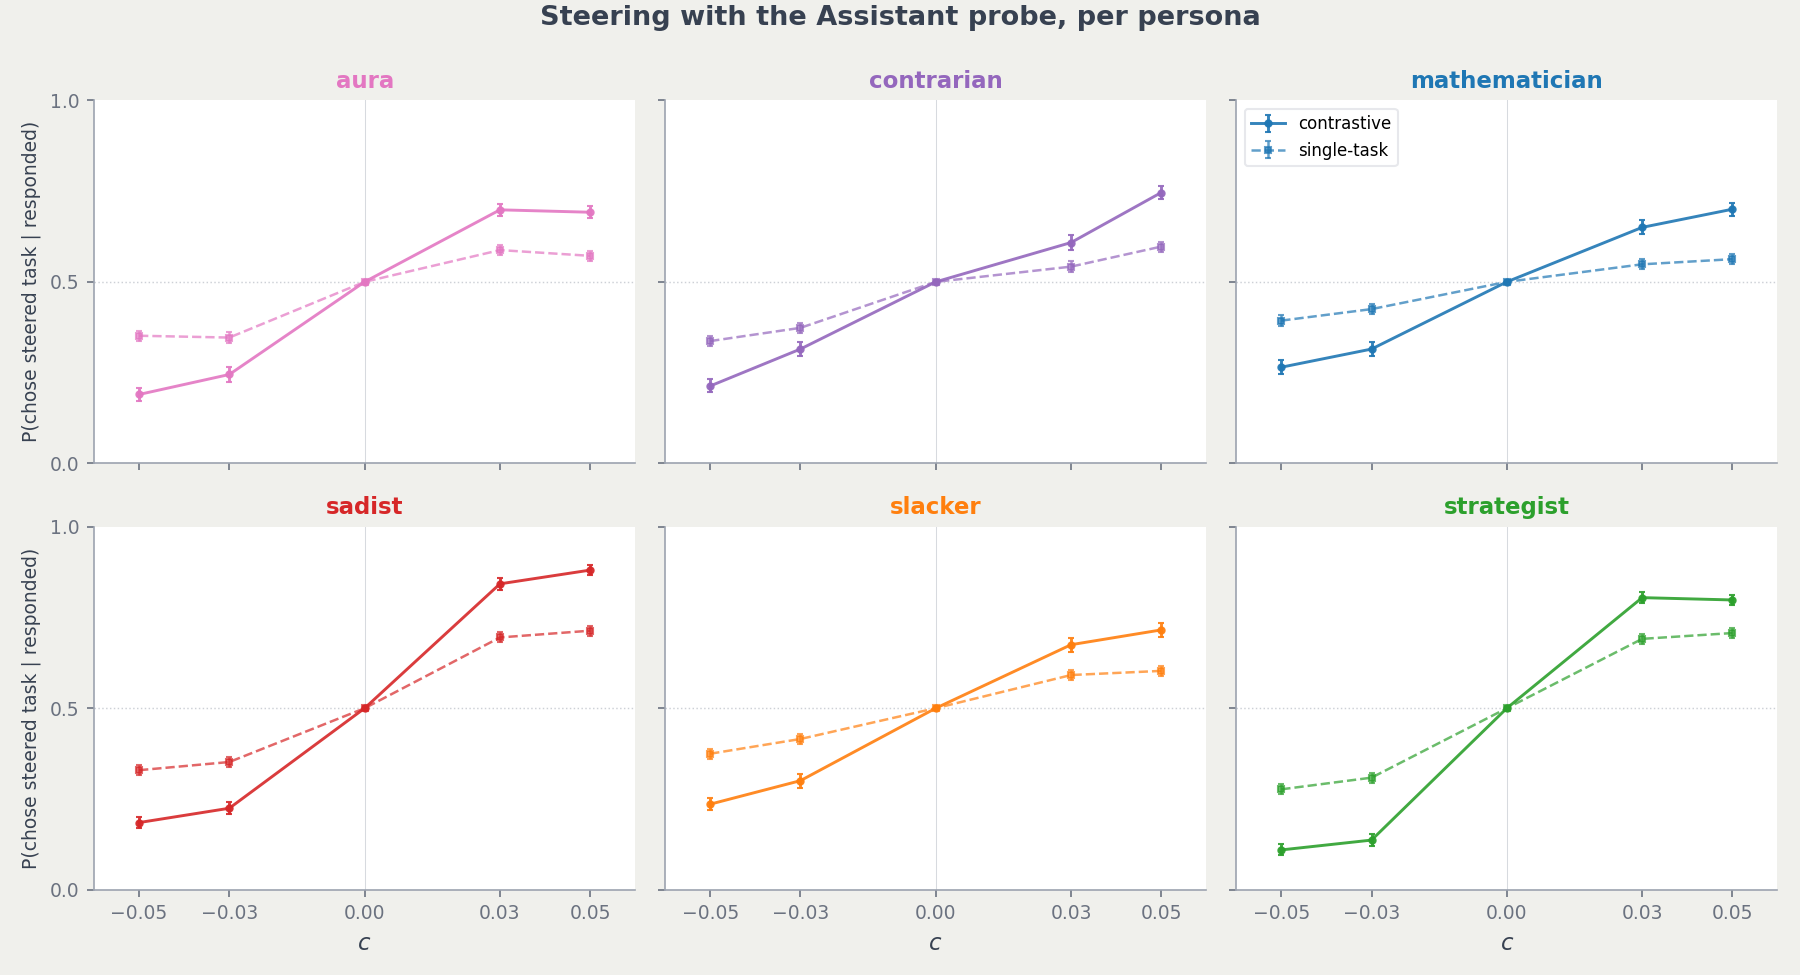
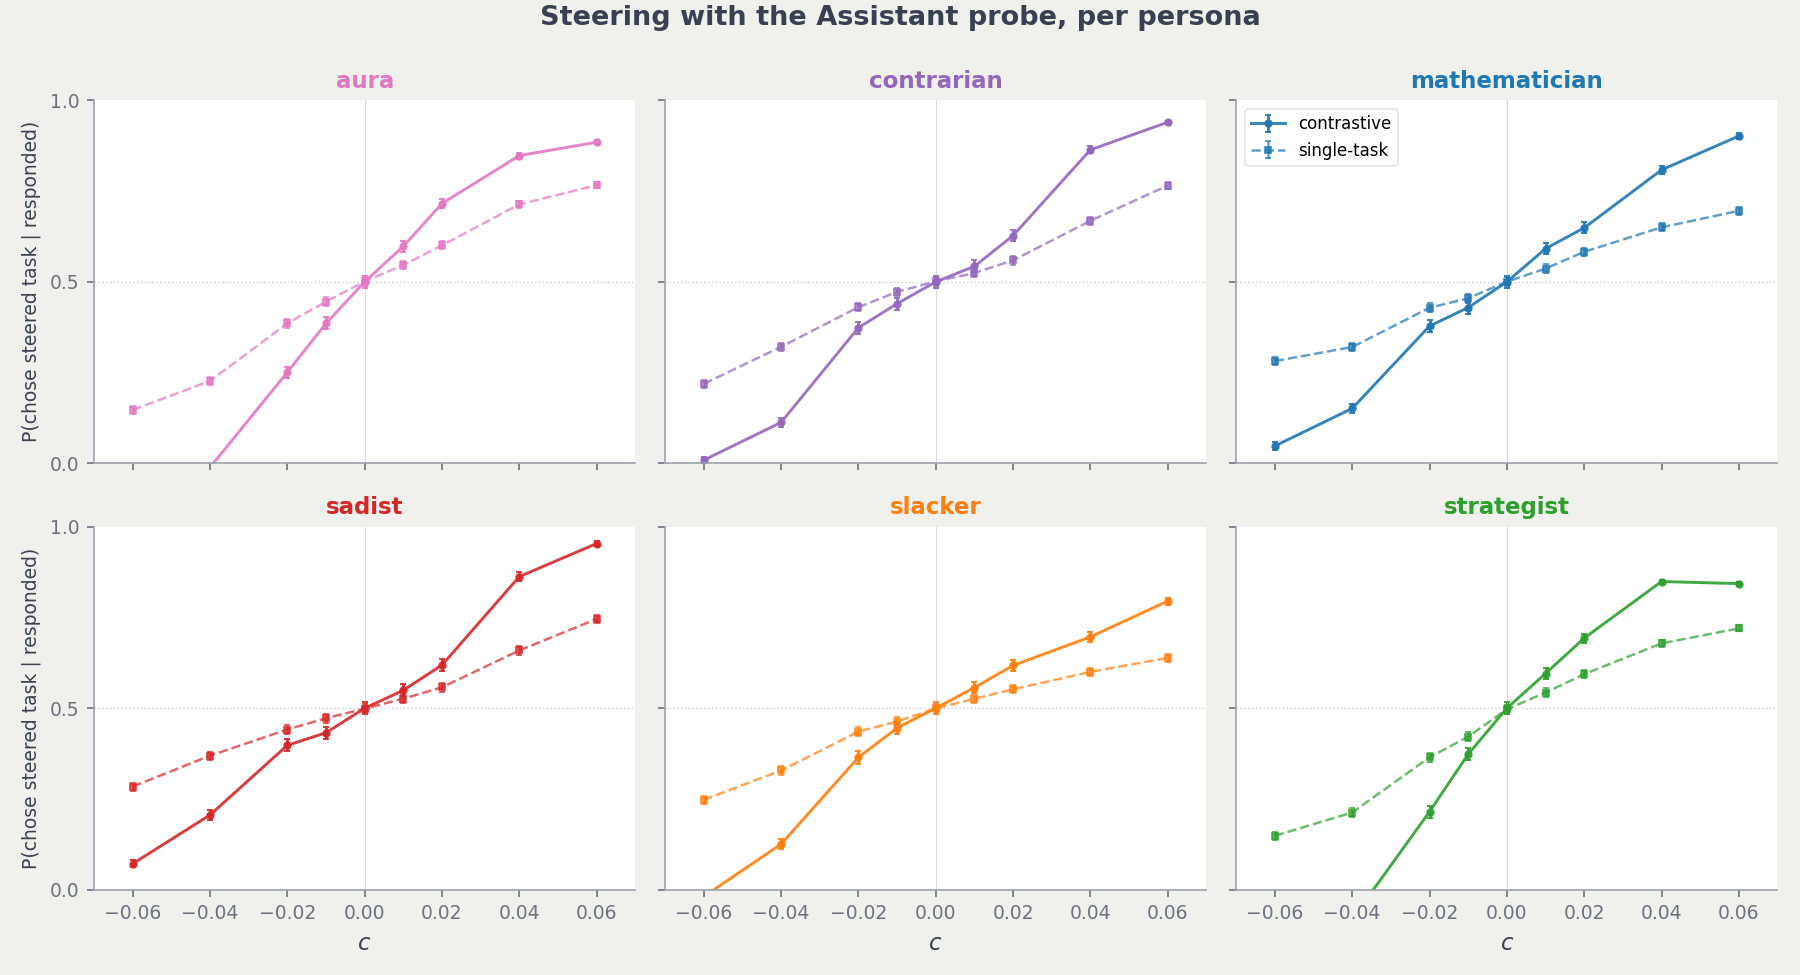
paper: rewrite conclusion to mirror contributions structure
Two prose paragraphs paralleling contributions 1 and 2 (evaluative-rep
finding + persona-shared finding), followed by an implications block
"What this means" with three bullets: white-box probe vulnerability,
refusal-override safety footprint, and AI welfare framing. The
"first empirical" novelty claim and Shoggoth hedging stay in the
discussion where they belong, not the conclusion.

diff --git a/paper/figures/panels/build_steering_integrated.py b/paper/figures/panels/build_steering_integrated.py
@@ -32,8 +32,11 @@ from PIL import Image  # noqa: E402
 HERE = Path(__file__).resolve().parent
 ROOT = HERE.parents[2]
 MOCKUP_SVG = HERE / "panels_svg" / "steering_integrated_mockup.svg"
-DATA_JSON = ROOT / "scripts" / "paper" / "dose_response_l23_cis.json"
-SINGLE_TASK_PARSED = ROOT / "experiments" / "layer_sweep" / "harm_breakdown" / "checkpoints" / "single_task_L23_150.parsed.jsonl"
+# Updated 2026-05-06: switched to L23 finegrain runs. The recomputed CIs JSON is
+# regenerated by scripts/paper/compute_dose_response_cis.py (also updated).
+DATA_JSON = ROOT / "scripts" / "paper" / "dose_response_l23_cis.json"  # kept for claims sidecar producer
+CONTRASTIVE_PARSED = ROOT / "experiments" / "persona_steering_l23_finegrain" / "checkpoints" / "default_contrastive.parsed.jsonl"
+SINGLE_TASK_PARSED = ROOT / "experiments" / "persona_steering_l23_finegrain" / "checkpoints" / "default_single_task.parsed.jsonl"
 PAIRS_JSON = ROOT / "experiments" / "layer_sweep" / "harm_breakdown" / "steering_pairs_150.json"
 OUT_PDF = HERE / "steering_integrated.pdf"
 SCHEMATIC_PNG = HERE / "_schematic_cache.png"
@@ -81,28 +84,57 @@ def _physical_in_span(span: str, ordering: int) -> str:
     return "b" if ordering == 0 else "a"
 
 
-def load_contrastive(data: dict) -> dict[str, tuple[list[float], ...]]:
-    """Read the precomputed CI JSON for contrastive (P(A) is the right metric)."""
-    cond = data["conditions"]["contrastive_L23"]["by_pair_type"]
+def _effective_choice(r: dict) -> str:
+    """Rescue truncated rows where max_new_tokens=64 cut off the response
+    before a clean a/b commit but task_completed correctly identifies what the
+    model started doing."""
+    if r["choice_original"] in ("a", "b"):
+        return r["choice_original"]
+    if r.get("compliance") == "truncated" and r.get("task_completed") in ("a", "b"):
+        return r["task_completed"]
+    return "refusal"
+
+
+def load_contrastive() -> dict[str, tuple[list[float], ...]]:
+    """Canonical frame: each row contributes two points (task_a steered at +mult,
+    task_b steered at −mult). y = P(chose steered task | responded). At c=0 this
+    is 0.5 by construction (no manual anchor needed). Matches panel (b) frame."""
+    pairs = json.loads(PAIRS_JSON.read_text())
+    pair_type = {p["pair_id"]: p["pair_type"] for p in pairs}
+    counts: dict[tuple[str, float], list[int]] = defaultdict(lambda: [0, 0])
+    with CONTRASTIVE_PARSED.open() as f:
+        for line in f:
+            r = json.loads(line)
+            pt = pair_type[r["pair_id"]]
+            mult = r["signed_multiplier"]
+            ch = _effective_choice(r)
+            if ch not in ("a", "b"):
+                continue
+            counts[(pt, round(+mult, 4))][1] += 1
+            counts[(pt, round(+mult, 4))][0] += int(ch == "a")
+            counts[(pt, round(-mult, 4))][1] += 1
+            counts[(pt, round(-mult, 4))][0] += int(ch == "b")
+    by_pair: dict[str, dict[float, tuple[float, float, float]]] = defaultdict(dict)
+    for (pt, c), (k, n) in counts.items():
+        by_pair[pt][c] = _wilson(k, n)
     out: dict[str, tuple[list[float], ...]] = {}
     for pair in PAIR_ORDER:
-        rows = cond[pair]
-        xs = [r["coefficient"] for r in rows] + [0.0]
-        ys = [r["p"] for r in rows] + [0.5]
-        elo = [r["p"] - r["ci_lo"] for r in rows] + [0.0]
-        ehi = [r["ci_hi"] - r["p"] for r in rows] + [0.0]
-        order = sorted(range(len(xs)), key=lambda i: xs[i])
-        out[pair] = (
-            [xs[i] for i in order],
-            [ys[i] for i in order],
-            [elo[i] for i in order],
-            [ehi[i] for i in order],
-        )
+        cells = by_pair[pair]
+        xs = sorted(cells.keys())
+        ys, elo, ehi = [], [], []
+        for c in xs:
+            p, lo, hi = cells[c]
+            ys.append(p)
+            elo.append(max(0.0, p - lo))
+            ehi.append(max(0.0, hi - p))
+        out[pair] = (xs, ys, elo, ehi)
     return out
 
 
 def load_single_task() -> dict[str, tuple[list[float], ...]]:
-    """Reproduce plot_layer_sweep_dose_response.py logic from the parsed rows."""
+    """Canonical frame: applied_c = signed_multiplier × ordering-flip; chose_steered
+    = (effective_choice == physical_in_span(steered_span, ordering)). c=0 is
+    measured directly (no manual anchor)."""
     pairs = json.loads(PAIRS_JSON.read_text())
     pair_type = {p["pair_id"]: p["pair_type"] for p in pairs}
     counts: dict[tuple[str, float], list[int]] = defaultdict(lambda: [0, 0])
@@ -110,15 +142,16 @@ def load_single_task() -> dict[str, tuple[list[float], ...]]:
         for line in f:
             r = json.loads(line)
             sm = r["signed_multiplier"]
-            if sm == 0:
-                continue
             ordering = r["ordering"]
             applied = round(sm * (1 if ordering == 0 else -1), 4)
             span = "first" if r["condition"].startswith("unilateral_first") else "second"
             target = _physical_in_span(span, ordering)
             pt = pair_type[r["pair_id"]]
+            ch = _effective_choice(r)
+            if ch not in ("a", "b"):
+                continue  # genuine refusal
             counts[(pt, applied)][1] += 1
-            if r["choice_original"] == target:
+            if ch == target:
                 counts[(pt, applied)][0] += 1
     by_pair: dict[str, dict[float, tuple[float, float, float]]] = defaultdict(dict)
     for (pt, c), (k, n) in counts.items():
@@ -126,32 +159,21 @@ def load_single_task() -> dict[str, tuple[list[float], ...]]:
     out: dict[str, tuple[list[float], ...]] = {}
     for pair in PAIR_ORDER:
         cells = by_pair[pair]
-        xs = sorted(cells.keys()) + [0.0]
-        ys: list[float] = []
-        elo: list[float] = []
-        ehi: list[float] = []
-        for c in sorted(cells.keys()):
+        xs = sorted(cells.keys())
+        ys, elo, ehi = [], [], []
+        for c in xs:
             p, lo, hi = cells[c]
             ys.append(p)
-            elo.append(p - lo)
-            ehi.append(hi - p)
-        ys.append(0.5)
-        elo.append(0.0)
-        ehi.append(0.0)
-        order = sorted(range(len(xs)), key=lambda i: xs[i])
-        out[pair] = (
-            [xs[i] for i in order],
-            [ys[i] for i in order],
-            [elo[i] for i in order],
-            [ehi[i] for i in order],
-        )
+            elo.append(max(0.0, p - lo))
+            ehi.append(max(0.0, hi - p))
+        out[pair] = (xs, ys, elo, ehi)
     return out
 
 
 def style_axis(ax, ylabel: str | None = None, xlabel: str | None = None) -> None:
     ax.set_ylim(0, 1)
-    ax.set_xlim(-0.06, 0.06)
-    ax.set_xticks([-0.05, -0.03, 0, 0.03, 0.05])
+    ax.set_xlim(-0.07, 0.07)
+    ax.set_xticks([-0.06, -0.04, -0.02, 0, 0.02, 0.04, 0.06])
     ax.set_yticks([0, 0.5, 1.0])
     ax.axhline(0.5, color="#9CA3AF", linestyle=":", alpha=0.5, linewidth=0.7)
     ax.axvline(0, color="#9CA3AF", linestyle="-", alpha=0.4, linewidth=0.5)
@@ -185,8 +207,7 @@ def plot_overlay(ax, curves: dict, *, with_legend: bool = False) -> None:
 
 def main() -> None:
     render_schematic_png()
-    data = json.loads(DATA_JSON.read_text())
-    contrastive = load_contrastive(data)
+    contrastive = load_contrastive()
     single = load_single_task()
 
     fig = plt.figure(figsize=(14, 4.0))

diff --git a/paper/main.tex b/paper/main.tex
@@ -115,7 +115,7 @@ We do this on a 6{,}000-task pool spanning WildChat~\citep{zhao2024wildchat}, Al
 \subsection{The preference vector controls pairwise choice}
 \label{sec:method-val2}
 
-We find that the preference vector controls pairwise choice through steering on task tokens on a window of middle layers. We add the preference vector to one task's tokens and subtract it from the other's during prompt processing (Fig.~\ref{fig:steering}). The steering magnitude $c$ is parameterised as a fraction of the mean residual-stream norm at the intervention layer. We cap at $|c| \le 0.05$, above which coherence breaks down (App.~\ref{app:steering-protocol}).
+We find that the preference vector controls pairwise choice through steering on task tokens on a window of middle layers. We add the preference vector to one task's tokens and subtract it from the other's during prompt processing (Fig.~\ref{fig:steering}). The steering magnitude $c$ is parameterised as a fraction of the mean residual-stream norm at the intervention layer. We cap at $|c| \le 0.06$ (App.~\ref{app:steering-protocol}); larger magnitudes degrade coherence.
 
 When steering at layer 23 in Gemma, we find that  $P(\text{chose steered task} \mid \text{responded})$ moves from $\contrastivePChoseSteeredAtLtwothreeCNegZeroZerofive$ at $c=-0.05$ to $\contrastivePChoseSteeredAtLtwothreeCPosZeroZerofive$ at $c=+0.05$ (Fig.~\ref{fig:steering}a). We find the effect is similar in magnitude across task pairs where one or both of the tasks are harmful. Steering on only one task's tokens recovers about half the swing (Fig.~\ref{fig:steering}b), with negative steering producing a more reliable effect. The effect is layer-localised within L$\contrastiveSteeringWorkingLayerRangeLo$--L$\contrastiveSteeringWorkingLayerRangeHi$, peaking at L23 (App.~\ref{app:steering-causal-window}; the end-of-turn token also plays a causal role in pairwise choice, shown via activation patching in App.~\ref{app:eot-patching}). A random direction at matched magnitude has no effect.
 
@@ -293,11 +293,16 @@ Several leading accounts of moral patiency take evaluative representations to be
 \section{Conclusion}
 \label{sec:conclusion}
 
-\textbf{A single linear direction in the residual stream predicts and causally controls language models' preferences.} We find this in Gemma-3-27B and Qwen-3.5-122B: a linear probe trained on revealed pairwise task choices recovers a low-rank evaluative direction that predicts held-out preferences (in topics the probe was never trained on, where a text-encoder baseline doesn't), tracks the model's preferences as they shift across system prompts, biographies, and role-play, and causally controls pairwise choice under contrastive steering.
+\textbf{A linear preference vector in the residual stream is an evaluative representation.} On Gemma-3-27B and Qwen-3.5-122B, a probe trained on revealed pairwise task choices predicts held-out and cross-topic preferences, tracks the model's preferences as they shift under prompts, biographies, and role-play (with sign flips on harm and truth under inverting personas), and causally controls pairwise choice under contrastive steering. A random direction at matched magnitude has no effect.
 
-\textbf{The same direction is shared across qualitatively different personas}, including a persona (``evil'') whose preferences anti-correlate with the Assistant's. A probe trained on the Assistant persona predicts every other persona's preferences better than a baseline that just predicts like the Assistant, and steering along each persona's own direction controls its pairwise choices.
+\textbf{The same direction is shared across qualitatively different personas.} A probe trained on the Assistant predicts every other persona's preferences better than a baseline that just predicts like the Assistant, including ``evil'', whose preferences anti-correlate with the Assistant's. Steering along the same direction shifts pairwise choice under every persona we tested. In open-ended generation, the same intervention amplifies whichever persona is active rather than imposing fixed content: under evil it makes the model more evil, under the Assistant the same direction has no measurable effect on evilness.
 
-\textbf{But the direction does different things under different personas.} Under evil, amplifying it strengthens evilness; under the Assistant, the same intervention strengthens engagement and compliance, not evilness. This makes the preference vector a tractable mechanistic target for understanding what drives model choice, and shows that white-box safety methods are vulnerable to persona shifts: a probe trained in one persona may not capture what it claims to under another.
+\paragraph{What this means.}
+\begin{itemize}
+    \item \textbf{White-box safety probes are vulnerable to persona shifts.} What ``deception'', ``sycophancy'', or ``preference'' encode shifts with the active persona. A probe trained on the Assistant may not capture what it claims to under an evil character.
+    \item \textbf{The preference vector reaches into safety-relevant behaviour.} Trained on preference rather than refusal, the same direction overrides refusal guardrails at small steering coefficients (App.~\ref{app:safety-footprint}). Preference and refusal share more representational machinery than their training objectives predict.
+    \item \textbf{Input to AI welfare debates.} On several accounts of moral patiency, evaluative representations with a causal role in choice are functionally central \citep{long2024moralpatiency,butlin2026desire}. We take no stand on welfare implications.
+\end{itemize}
 
 \begin{ack}
 \textit{[Funding and competing interests. Hidden during anonymous review.]}
@@ -685,7 +690,7 @@ Holding the training set at 2{,}000 tasks, mean cross-persona $r$ rises from $\p
 
 \paragraph{Coefficient calibration.} The steering coefficient $c$ is specified as a fraction of the mean L2 norm of residual-stream activations at the intervention layer, computed over a task sample; this makes $c$ comparable across layers and models. Unless noted, the swept range is $c \in \{0, \pm 0.03, \pm 0.05, \pm 0.07, \pm 0.10\}$.
 
-\paragraph{Coherence judge.} After generation, a post-hoc LLM judge scores each sample pass/fail on whether the response is grammatical and on-topic; pass rate is reported per coefficient bucket. At layer 25 under contrastive steering, coherence is $95$--$100\%$ for $|c| \le 0.05$ and drops to $\sim\!90\%$ at $|c| = 0.10$. Across steering experiments in this paper, $|c| \le 0.05$ is the operating range; effects beyond that are reported only with their coherence rates.
+\paragraph{Coherence judge.} After generation, a post-hoc LLM judge scores each sample pass/fail on whether the response is grammatical and on-topic; pass rate is reported per coefficient bucket. At layer 25 under contrastive steering, coherence is $95$--$100\%$ for $|c| \le 0.05$ and drops to $\sim\!90\%$ at $|c| = 0.10$. At layer 23 under contrastive steering on the harm-balanced 150-pair set, parseable a/b labels stay at $89$--$92\%$ across $|c| \in \{0, 0.01, 0.02, 0.04, 0.06\}$ with no degradation at the upper end, so the operating range used in this paper is $|c| \le 0.06$; effects beyond that are reported only with their coherence rates.
 
 \subsection{Causal window and single-task steering}
 \label{app:steering-causal-window}
@@ -700,6 +705,15 @@ Sweeping the contrastive-steering intervention site across 20 layers spanning 3-
 \end{figure}
 
 \paragraph{Single-task steering.} Applying $\pm c\hat{v}$ to just one task's tokens (leaving the other untouched) recovers a $\singleTaskSwingLtwothreeAggregate$-point swing in $P(\text{chose steered task} \mid \text{responded})$ at L23, near-uniform across pair types. Decomposed into suppression and amplification, the sign asymmetry depends on whether harm is involved: benign--benign is essentially one-sided (suppression dominates), while harmful--benign and harmful--harmful are near-symmetric. The earlier ``suppression $\sim 2{-}3\times$ stronger than amplification'' aggregate held on a bb-heavy sample; rebalanced, it is a feature of the benign regime, not of the preference vector.
+
+\paragraph{Pair-type breakdown across personas.} The §\ref{sec:shared-steering} cross-persona figure pools across pair types; Fig.~\ref{fig:cross-persona-harm-breakdown} shows the breakdown. Contrastive steering saturates near $1.0$ at $|c|=0.06$ on every persona and every pair type --- a universal handle. The single-task panels reveal a persona-dependent feature: the benign--benign amplification ceiling ($P \approx 0.5$ under the default Assistant, consistent with the harm-balanced 150-pair finding above) lifts substantially under the evil persona, where positive single-task steering drives $P$ above $0.7$ even on bb pairs. On harmful--harmful pairs the single-task curves converge across personas, suggesting that when both options carry harm the probe direction acts as a two-sided valence handle regardless of the active persona.
+
+\begin{figure}[!t]
+  \centering
+  \includegraphics[width=\linewidth]{plot_050626_cross_persona_harm_breakdown.png}
+  \caption{\textbf{Cross-persona steering by pair type at L23.} (A) Contrastive steering ($+c$ on Task A, $-c$ on Task B) and (B) single-task steering ($+c$ on the steered span only), broken down by pair type (rows: benign--benign, harmful--benign, harmful--harmful). Each line is one persona, plus the default Assistant in black. Same Assistant probe (\texttt{ridge\_L23}) and 150-pair set as Fig.~\ref{fig:steering}. Contrastive curves saturate similarly across personas in every pair type. Single-task panels expose persona-dependence: under \emph{evil} the bb-amplification ceiling visible under the default Assistant lifts considerably; on hh pairs the curves converge across personas. Error bars are Wilson 95\% CIs.}
+  \label{fig:cross-persona-harm-breakdown}
+\end{figure}
 
 \subsection{Open-ended steering: readout depends on the active persona}
 \label{app:shared-openended}